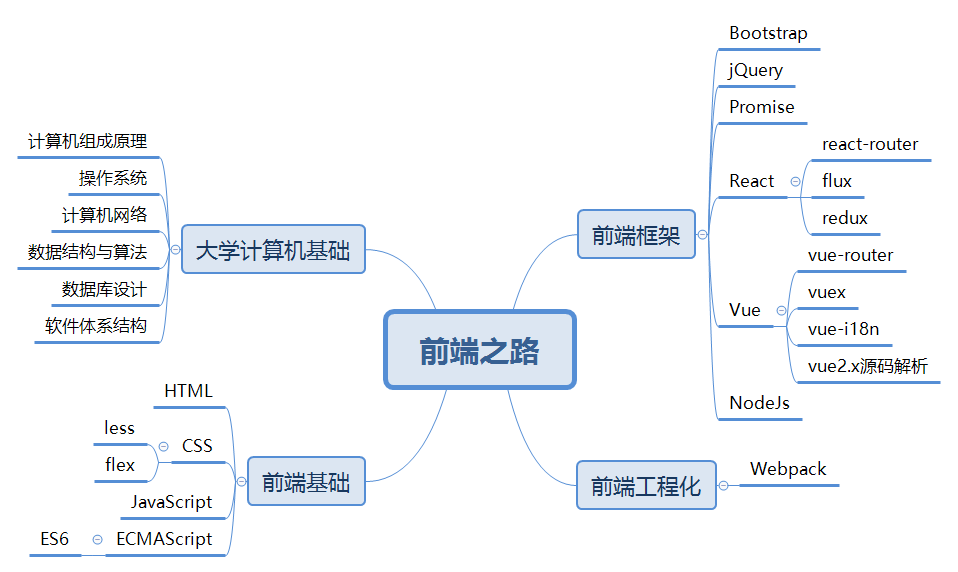
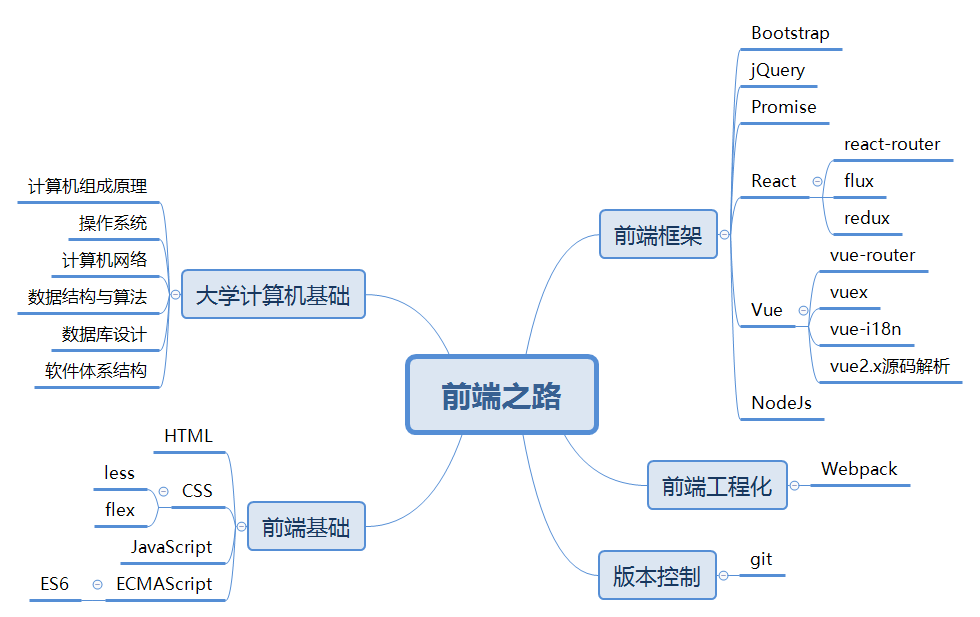
finished git

diff --git a/knowledgePoint/git/README.md b/knowledgePoint/git/README.md
@@ -49,7 +49,7 @@ linux团队为管理linux代码而研发的一套分布式版本控制系统。
 修改HEAD指向：git reset --hard commit_id<br>
 PS：HEAD表示当前版本，HEAD^表示上一个版本，HEAD~3表示上三个版本。
 ### <span id = "sgj2">工作区和暂存区
-![工作区和暂存区](./imgs/stage-and-workspace.png)<br>
+![工作区和暂存区](./imgs/stage-and-workspace.png)
 ### <span id = "sgj3">管理修改
 Git跟踪并管理的是修改，而非文件。
 ### <span id = "sgj4">撤销修改
@@ -66,7 +66,7 @@ rm file_name<br>
 ### <span id = "ycck2">将远程仓库与本地仓库相关联(先有本地仓库)
 关联：git remote add origin git@github.com:best921/originProperty.git
 ## <span id = "fzgl">分支管理
-![分支管理](./imgs/git-branch.png)<br>
+![分支管理](./imgs/git-branch.png)
 ### <span id = "fzgl1">创建与合并分支
 查看分支：git branch<br>
 新建分支：git branch branch_name<br>
@@ -76,16 +76,16 @@ rm file_name<br>
 切换分支：git checkout branch_name<br>
 新建+切换分支：git checkout -b branch_name<br>
 合并指定分支到当前分支(默认Fast-forward模式)：git merge branch_name<br>
-普通模式的分支合并，会新建一个commit记录：git merge --no-ff -m "" branch_name
-![非Fast forward模式的分支合并](./imgs/no-fast-forward.png)<br>
+普通模式的分支合并，会新建一个commit记录：git merge --no-ff -m "" branch_name<br>
+![非Fast forward模式的分支合并](./imgs/no-fast-forward.png)
 ### <span id = "fzgl2">解决冲突
-![解决冲突](./imgs/conflict.png)<br>
+![解决冲突](./imgs/conflict.png)
 把Git合并失败的文件手动编辑为我们希望的内容，再提交。<br>
 查看分支合并图：git log --graph --pretty=oneline --abbrev-commit
 ### <span id = "fzgl3">分支管理策略
 master分支：应该是非常稳定的，也就是仅用来发布新版本，平时不能在上面干活。<br>
-dev分支：不稳定的，在该分支开发，到某个时候，比如1.0版本发布时，再把dev分支合并到master上，在master分支发布1.0版本。
-![分支管理](./imgs/branch-control.png)<br>
+dev分支：不稳定的，在该分支开发，到某个时候，比如1.0版本发布时，再把dev分支合并到master上，在master分支发布1.0版本。<br>
+![分支管理](./imgs/branch-control.png)
 ### <span id = "fzgl4">Bug分支
 储藏当前工作现场：git stash<br>
 新建临时分支修复Bug，合并并删除分支。<br>

diff --git a/README.md b/README.md
@@ -30,3 +30,5 @@
 6. NodeJs：《深入浅出nodejs》
 ## 前端工程化
 * Webpack
+## 版本控制
+* [Git](./knowledgePoint/git)
